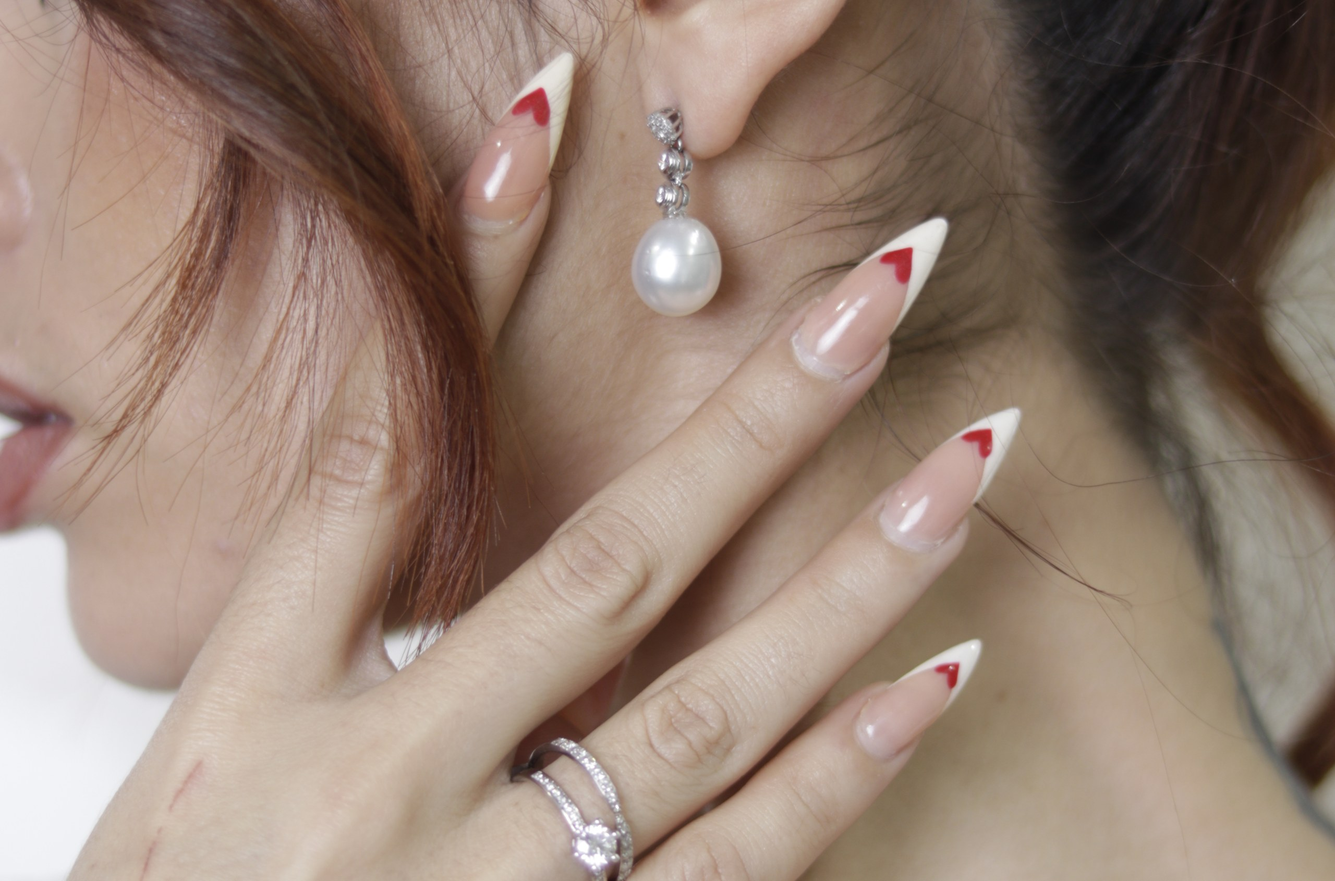
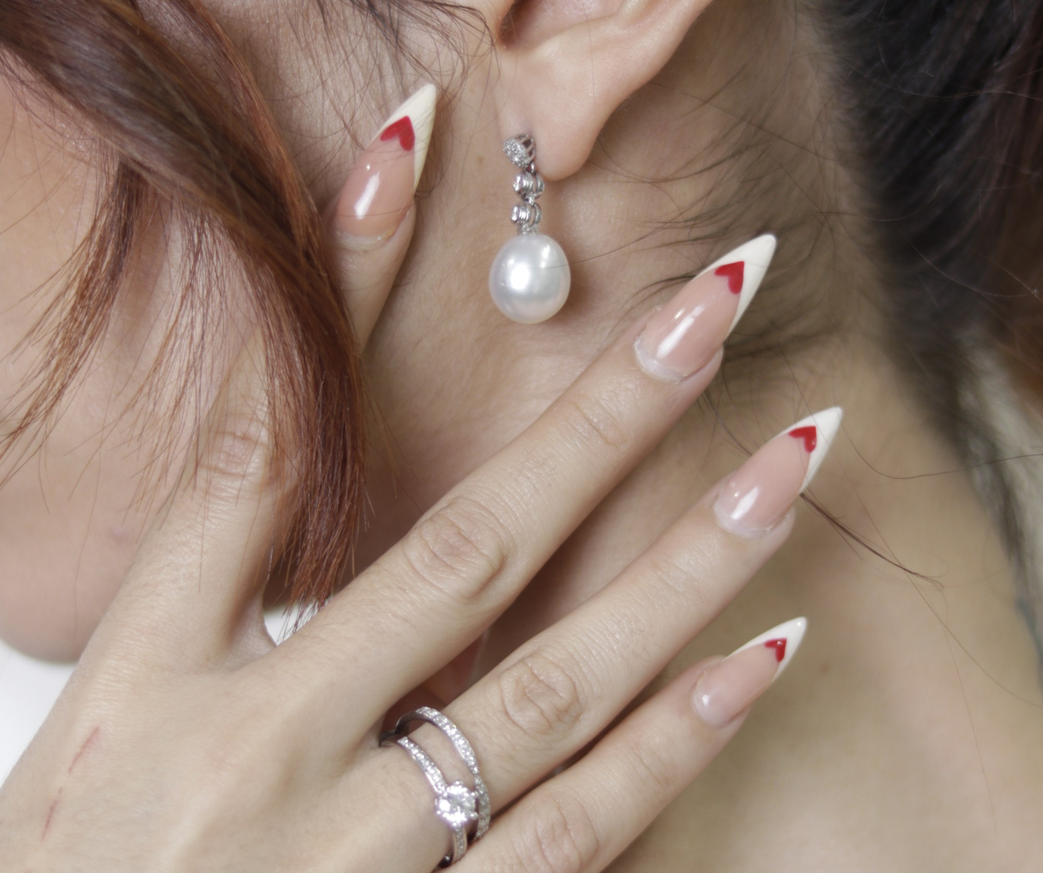
LL Joyería: diapositivas 3 y 4 con la foto a la derecha en ordenador para que se vea la joya

diff --git a/ll-joyeria/index.html b/ll-joyeria/index.html
@@ -334,6 +334,7 @@ footer{background:#fff;border-top:1px solid var(--linea)}
 .pz:hover img{transform:scale(1.05)}
 .pz-pie{text-align:center;margin-top:40px;color:var(--gris)}
 @media (max-width:640px){.piezas{padding-bottom:84px}.pz-g{grid-template-columns:1fr 1fr;gap:10px}.pz-t{font-size:21px;margin-top:30px}}
+@media (min-width:641px){.slide.lado{background:#24211d}.slide.lado .foto{left:auto;width:52%}.slide.lado .foto>picture>img{object-position:50% 50%!important}.slide.lado:nth-of-type(3) .foto>picture>img{object-position:50% 72%!important}.slide.lado .velo{background:linear-gradient(90deg,#24211d 0%,rgba(36,33,29,.85) 44%,rgba(36,33,29,0) 52%)}}
 </style>
 </head>
 <body>
@@ -419,8 +420,8 @@ footer{background:#fff;border-top:1px solid var(--linea)}
       </div>
     </div>
     <!-- Diapositiva 3 -->
-    <div class="slide" data-tono="claro">
-      <div class="foto"><picture><source media="(max-width:640px)" srcset="img/portada-3-movil.webp"><img src="img/portada-3.webp" width="2560" height="1690" decoding="async" alt="Pendiente con perla y anillo" style="object-position:50% 40%"></picture></div>
+    <div class="slide lado" data-tono="claro">
+      <div class="foto"><picture><source media="(max-width:640px)" srcset="img/portada-3-movil.webp"><img src="img/portada-3.webp" width="2000" height="1674" decoding="async" alt="Pendiente con perla y anillo" style="object-position:50% 40%"></picture></div>
       <div class="velo"></div>
       <div class="txt">
         <span class="mayus">Perlas</span>
@@ -430,8 +431,8 @@ footer{background:#fff;border-top:1px solid var(--linea)}
       </div>
     </div>
     <!-- Diapositiva 4 -->
-    <div class="slide" data-tono="claro">
-      <div class="foto"><picture><source media="(max-width:640px)" srcset="img/portada-4-movil.webp"><img src="img/portada-4.webp" width="2560" height="1382" decoding="async" alt="Collar de piedras de colores sobre vestido verde" style="object-position:50% 45%"></picture></div>
+    <div class="slide lado" data-tono="claro">
+      <div class="foto"><picture><source media="(max-width:640px)" srcset="img/portada-4-movil.webp"><img src="img/portada-4.webp" width="2000" height="1674" decoding="async" alt="Collar de piedras de colores sobre vestido verde" style="object-position:50% 45%"></picture></div>
       <div class="velo"></div>
       <div class="txt">
         <span class="mayus">Color</span>
